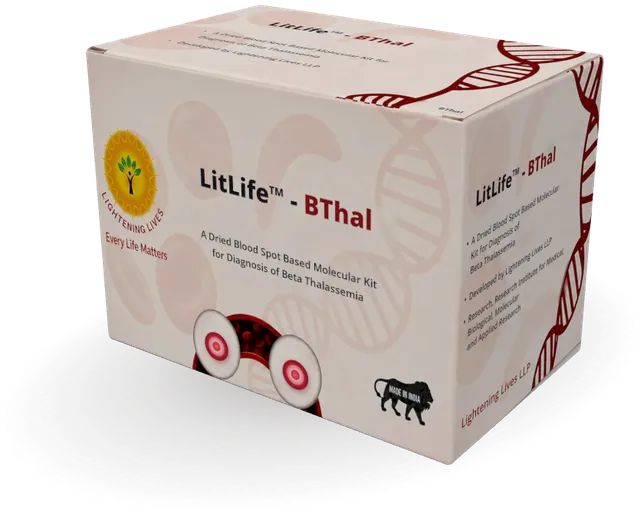
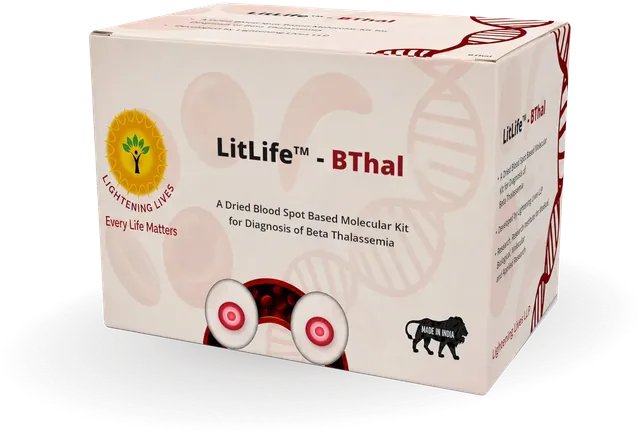
feat: enhance 3D kit visibility and legibility; update viewer settings and image assets for improved clarity

diff --git a/src/js/kits/viewer.js b/src/js/kits/viewer.js
@@ -9,11 +9,14 @@
 import {
   AmbientLight, CanvasTexture, Color, DirectionalLight, Group, LinearMipmapLinearFilter, Mesh,
   MeshBasicMaterial, MeshLambertMaterial, NoToneMapping, PerspectiveCamera, PlaneGeometry, Scene,
-  SRGBColorSpace, TextureLoader, WebGLRenderer,
+  SRGBColorSpace, TextureLoader, Vector3, WebGLRenderer,
 } from 'three';
+const UP = new Vector3(0, 1, 0);
 import { RoundedBoxGeometry } from 'three/examples/jsm/geometries/RoundedBoxGeometry.js';
 
-const REST = { yaw: -0.62, pitch: 0.36 }; // the resting turn: front, top and right side in view
+// The resting turn: the front, which carries the kit's name, nearly face-on, with the top and right side
+// in view (26 October 2026: turned 0.2 rad towards the reader, and lower, so the print is legible).
+const REST = { yaw: -0.42, pitch: 0.26 };
 const PITCH = [-0.15, 1.05];
 const reduced = window.matchMedia('(prefers-reduced-motion: reduce)');
 const loader = new TextureLoader();
@@ -38,7 +41,7 @@ function contactShadow() {
 function texture(url, renderer) {
   return new Promise((resolve, reject) => loader.load(url, (t) => {
     t.colorSpace = SRGBColorSpace;
-    t.anisotropy = Math.min(8, renderer.capabilities.getMaxAnisotropy());
+    t.anisotropy = renderer.capabilities.getMaxAnisotropy(); // a face turned away stays sharp
     t.minFilter = LinearMipmapLinearFilter;
     resolve(t);
   }, undefined, reject));
@@ -52,13 +55,17 @@ async function mount(stage) {
   const renderer = new WebGLRenderer({ canvas, antialias: true, alpha: true, powerPreference: 'low-power' });
   renderer.outputColorSpace = SRGBColorSpace;
   renderer.toneMapping = NoToneMapping;
-  renderer.setPixelRatio(Math.min(window.devicePixelRatio || 1, 2));
+  // Drawn at 1.5 times the screen's pixels (at least twice, at most three times) and shown at the
+  // screen's: the print is sampled from a sharper level of its texture and smoothed down by the browser,
+  // so small type on a small box stays legible. Five small canvases, drawn only while one moves.
+  renderer.setPixelRatio(Math.min(3, Math.max(2, (window.devicePixelRatio || 1) * 1.5)));
 
   const scene = new Scene();
-  // Matte card under soft light: printed colour stays true where a face looks at the light, and each
-  // face of the box is a shade apart, the top lightest, so its shape reads.
-  scene.add(new AmbientLight(0xffffff, 1.55));
-  const key = new DirectionalLight(0xffffff, 1.35);
+  // Matte card under soft light, set so the print is seen at its own colour: three.js's Lambert gives a
+  // face albedo × (ambient + key × cos) ÷ π, so at rest the front (cos ≈ 0.6) comes to 1.0, the top to
+  // about 1.05 and the shaded side to 0.8: the paper is white, not grey, and the box's shape still reads.
+  scene.add(new AmbientLight(0xffffff, 2.5));
+  const key = new DirectionalLight(0xffffff, 1.05);
   key.position.set(-1.6, 4, 2.6);
   scene.add(key);
 
@@ -89,9 +96,37 @@ async function mount(stage) {
   const camera = new PerspectiveCamera(28, 1, 0.1, 50);
   const state = { yaw: REST.yaw, pitch: REST.pitch, tyaw: REST.yaw, tpitch: REST.pitch, vyaw: 0, dragging: false, visible: true, raf: 0 };
 
+  // The camera stands as close as lets the box, turned anywhere a pointer turns it, fill 95% of the
+  // stage's width and 86% of its height (measured from the box's corners when the stage is sized).
+  let reach = 5.6;
+  const corners = [];
+  for (const x of [-1, 1]) for (const y of [-1, 1]) for (const z of [-1, 1]) corners.push(new Vector3((x * w * s) / 2, (y * h * s) / 2, (z * d * s) / 2));
+  const seen = new Vector3();
+  function fit() {
+    // The corners are seen from the camera at a guessed distance; the share of the view they reach
+    // shrinks as the distance grows, so the distance is scaled by how far off that share is, and again.
+    const tanV = Math.tan((camera.fov * Math.PI) / 360);
+    let r = 6;
+    for (let k = 0; k < 5; k += 1) {
+      let need = 0;
+      for (const yaw of [REST.yaw - 0.55, REST.yaw, REST.yaw + 0.55]) {
+        for (const pitch of [REST.pitch - 0.2, REST.pitch + 0.2]) {
+          camera.position.set(0, Math.sin(pitch) * r, Math.cos(pitch) * r);
+          camera.lookAt(0, -0.05, 0);
+          camera.updateMatrixWorld();
+          for (const c of corners) {
+            seen.copy(c).applyAxisAngle(UP, yaw).applyMatrix4(camera.matrixWorldInverse);
+            const depth = -seen.z;
+            need = Math.max(need, Math.abs(seen.x) / (depth * tanV * camera.aspect) / 0.95, Math.abs(seen.y) / (depth * tanV) / 0.86);
+          }
+        }
+      }
+      r *= need;
+    }
+    reach = Math.max(3.2, r);
+  }
   function place() {
-    // The camera looks down at the pitch, from far enough that the box fills about three quarters of the stage.
-    const r = 5.6;
+    const r = reach;
     camera.position.set(0, Math.sin(state.pitch) * r, Math.cos(state.pitch) * r);
     camera.lookAt(0, -0.05, 0);
     turn.rotation.y = state.yaw;
@@ -103,6 +138,7 @@ async function mount(stage) {
     renderer.setSize(width, height, false);
     camera.aspect = width / height;
     camera.updateProjectionMatrix();
+    fit();
     draw();
   }
   function draw() { place(); renderer.render(scene, camera); }
@@ -191,7 +227,7 @@ async function mount(stage) {
   window.llKits = window.llKits || {};
   window.llKits[model.kit] = (width = 960, height = 768) => {
     renderer.setSize(width, height, false);
-    camera.aspect = width / height; camera.updateProjectionMatrix();
+    camera.aspect = width / height; camera.updateProjectionMatrix(); fit();
     state.yaw = state.tyaw = REST.yaw; state.pitch = state.tpitch = REST.pitch;
     shadow.visible = true; draw();
     const url = canvas.toDataURL('image/png');

diff --git a/DESIGN.md b/DESIGN.md
@@ -719,3 +719,5 @@ Compiled files in `designs/assets/css` and `designs/assets/js` are committed; ru
 - **The partners along the foot** (after gsap.com's "Brands using GSAP"): six cells in the page's column, 6rem tall, hairlines between them (four from 40rem, three on a phone), each logo sized by its own proportions at the sizes the user asked for on 26 October 2026 (up to 5.25rem for a square emblem, a long wordmark held by width); every few seconds the cells change their logos in place (see Motion). Every name is in a list a screen reader hears, with a line saying that the logos change and that Enter stops them, and a polite line that says "Stopped" or "Changing again"; the cells are hidden from it. Still no visible label, no button and no link (the user's call earlier the same day).
 - **The gel, flat again** (26 October 2026; the user: the 3D gel "does not serve the purpose", and "remove Run again"). The poster's read-out in HTML and CSS on its `canopy` slab, as the Sweep of 25 October describes it, read more clearly: the three samples' names are the brightest, the marker's and the control's set quieter (ice blue, 600) as the references they are, and the empty control lane says "No DNA" down its middle. Under it, the key, named by where the bands stand on the gel as drawn, under the top band every sample shows (the caption says so): Patient "Bottom band", Unaffected "Middle band", Carrier "Middle and bottom", each with a small drawn lane. Pointing at, focusing or choosing a key lights its lane: a 2px life-green frame round the lane, its name filled life green, the other lanes at 30%; choosing keeps it lit. The key reflows by the figure's own width (a container query): three across, or one to a line at 16px. No 3D, no WebGL, no replay; the 3D gel's code (`src/js/gel/`, the `site-gel` bundle) is gone.
 - **REASSURED's lit letter**, beside its criterion, now sits on a `sun` ground with 0.5rem corners, as the word's own letters do; the hard offset shadow it had is gone (it read as misregistered print once the read-through lit every letter in turn).
+- **The kits in 3D, made legible** (26 October 2026; the user: the text on the boxes "is not properly visible ... make it more clear and clean"). The print artwork was sharp; the view lost it. The box rests nearly face-on (turned 0.42 rad, looked down on at 0.26 rad) so its front, which carries the kit's name, is large; the camera is fitted to the stage from the box's corners so the box, turned anywhere the pointer turns it, fills 95% of the stage's width; the light is set so the front shows the print at its own white (1.0 of the artwork, the top a little brighter, the shaded side 0.8; it was 0.75, a grey); and each view is drawn at 1.5 times the screen's pixels (at least twice, at most three times) with the screen's sharpest texture filtering. The stills shown before the 3D draws, and the opening's lineup, were captured again from the same view (`npm run kit-stills`, then `npm run images`).
+
